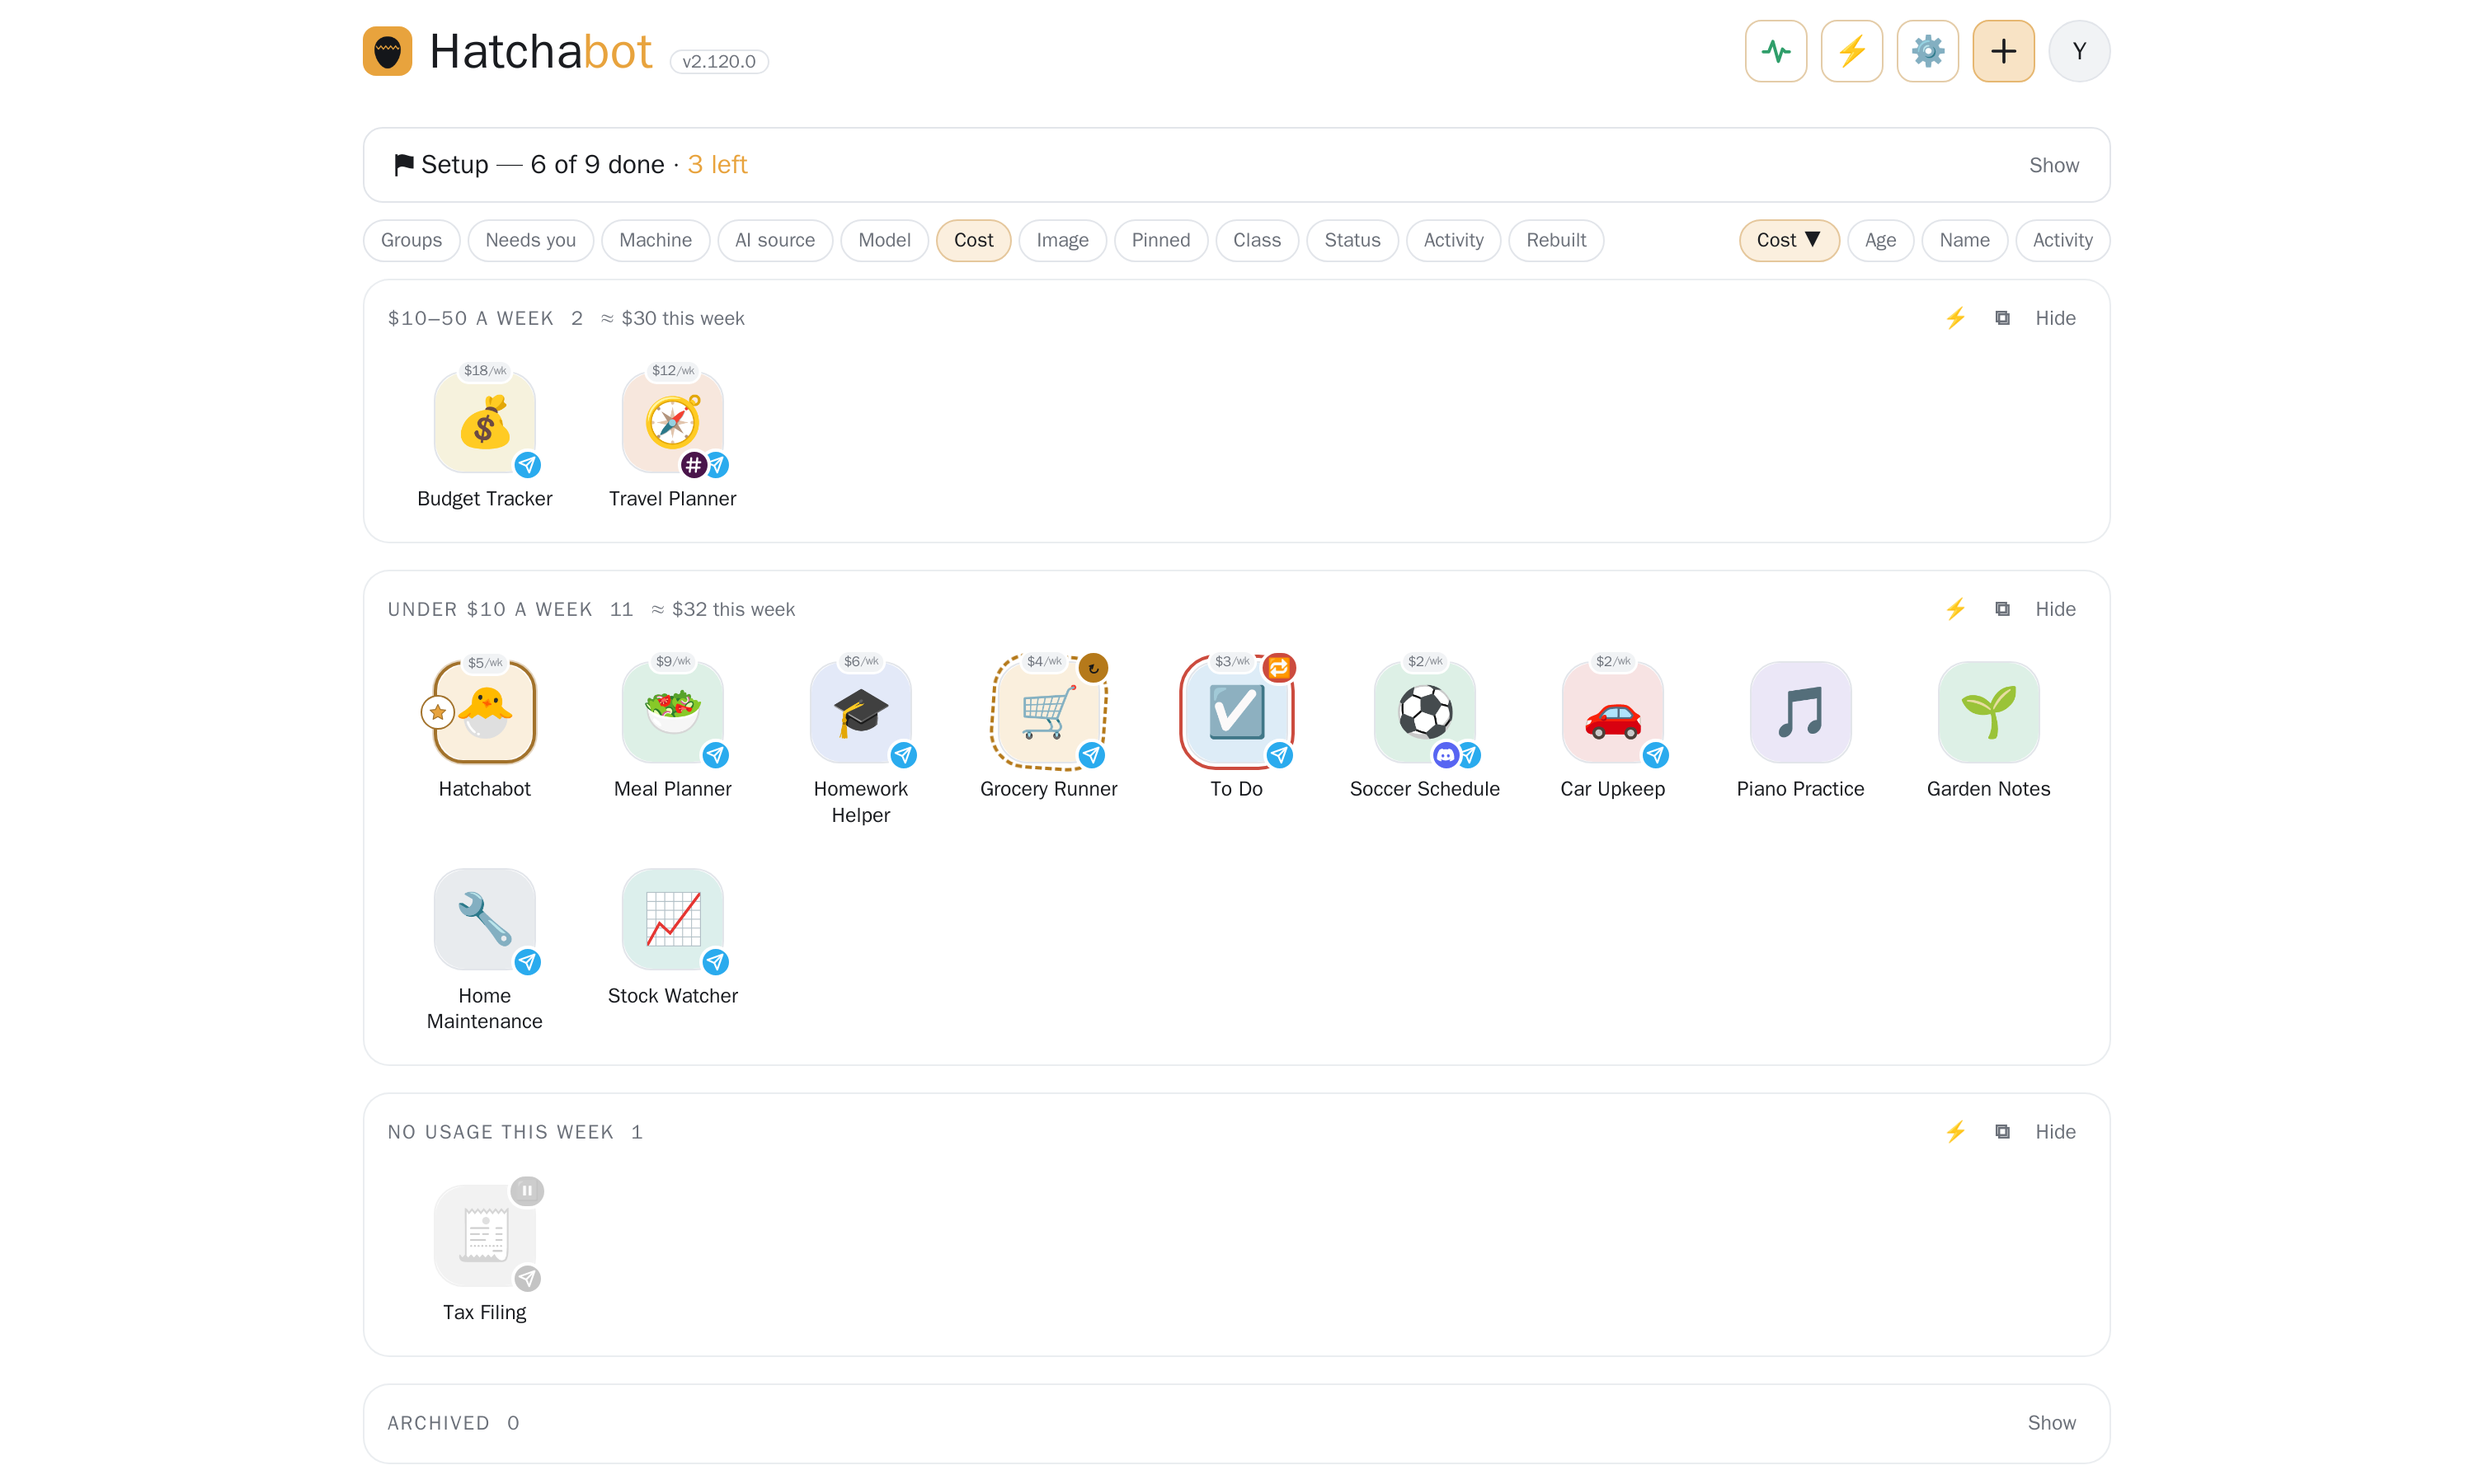
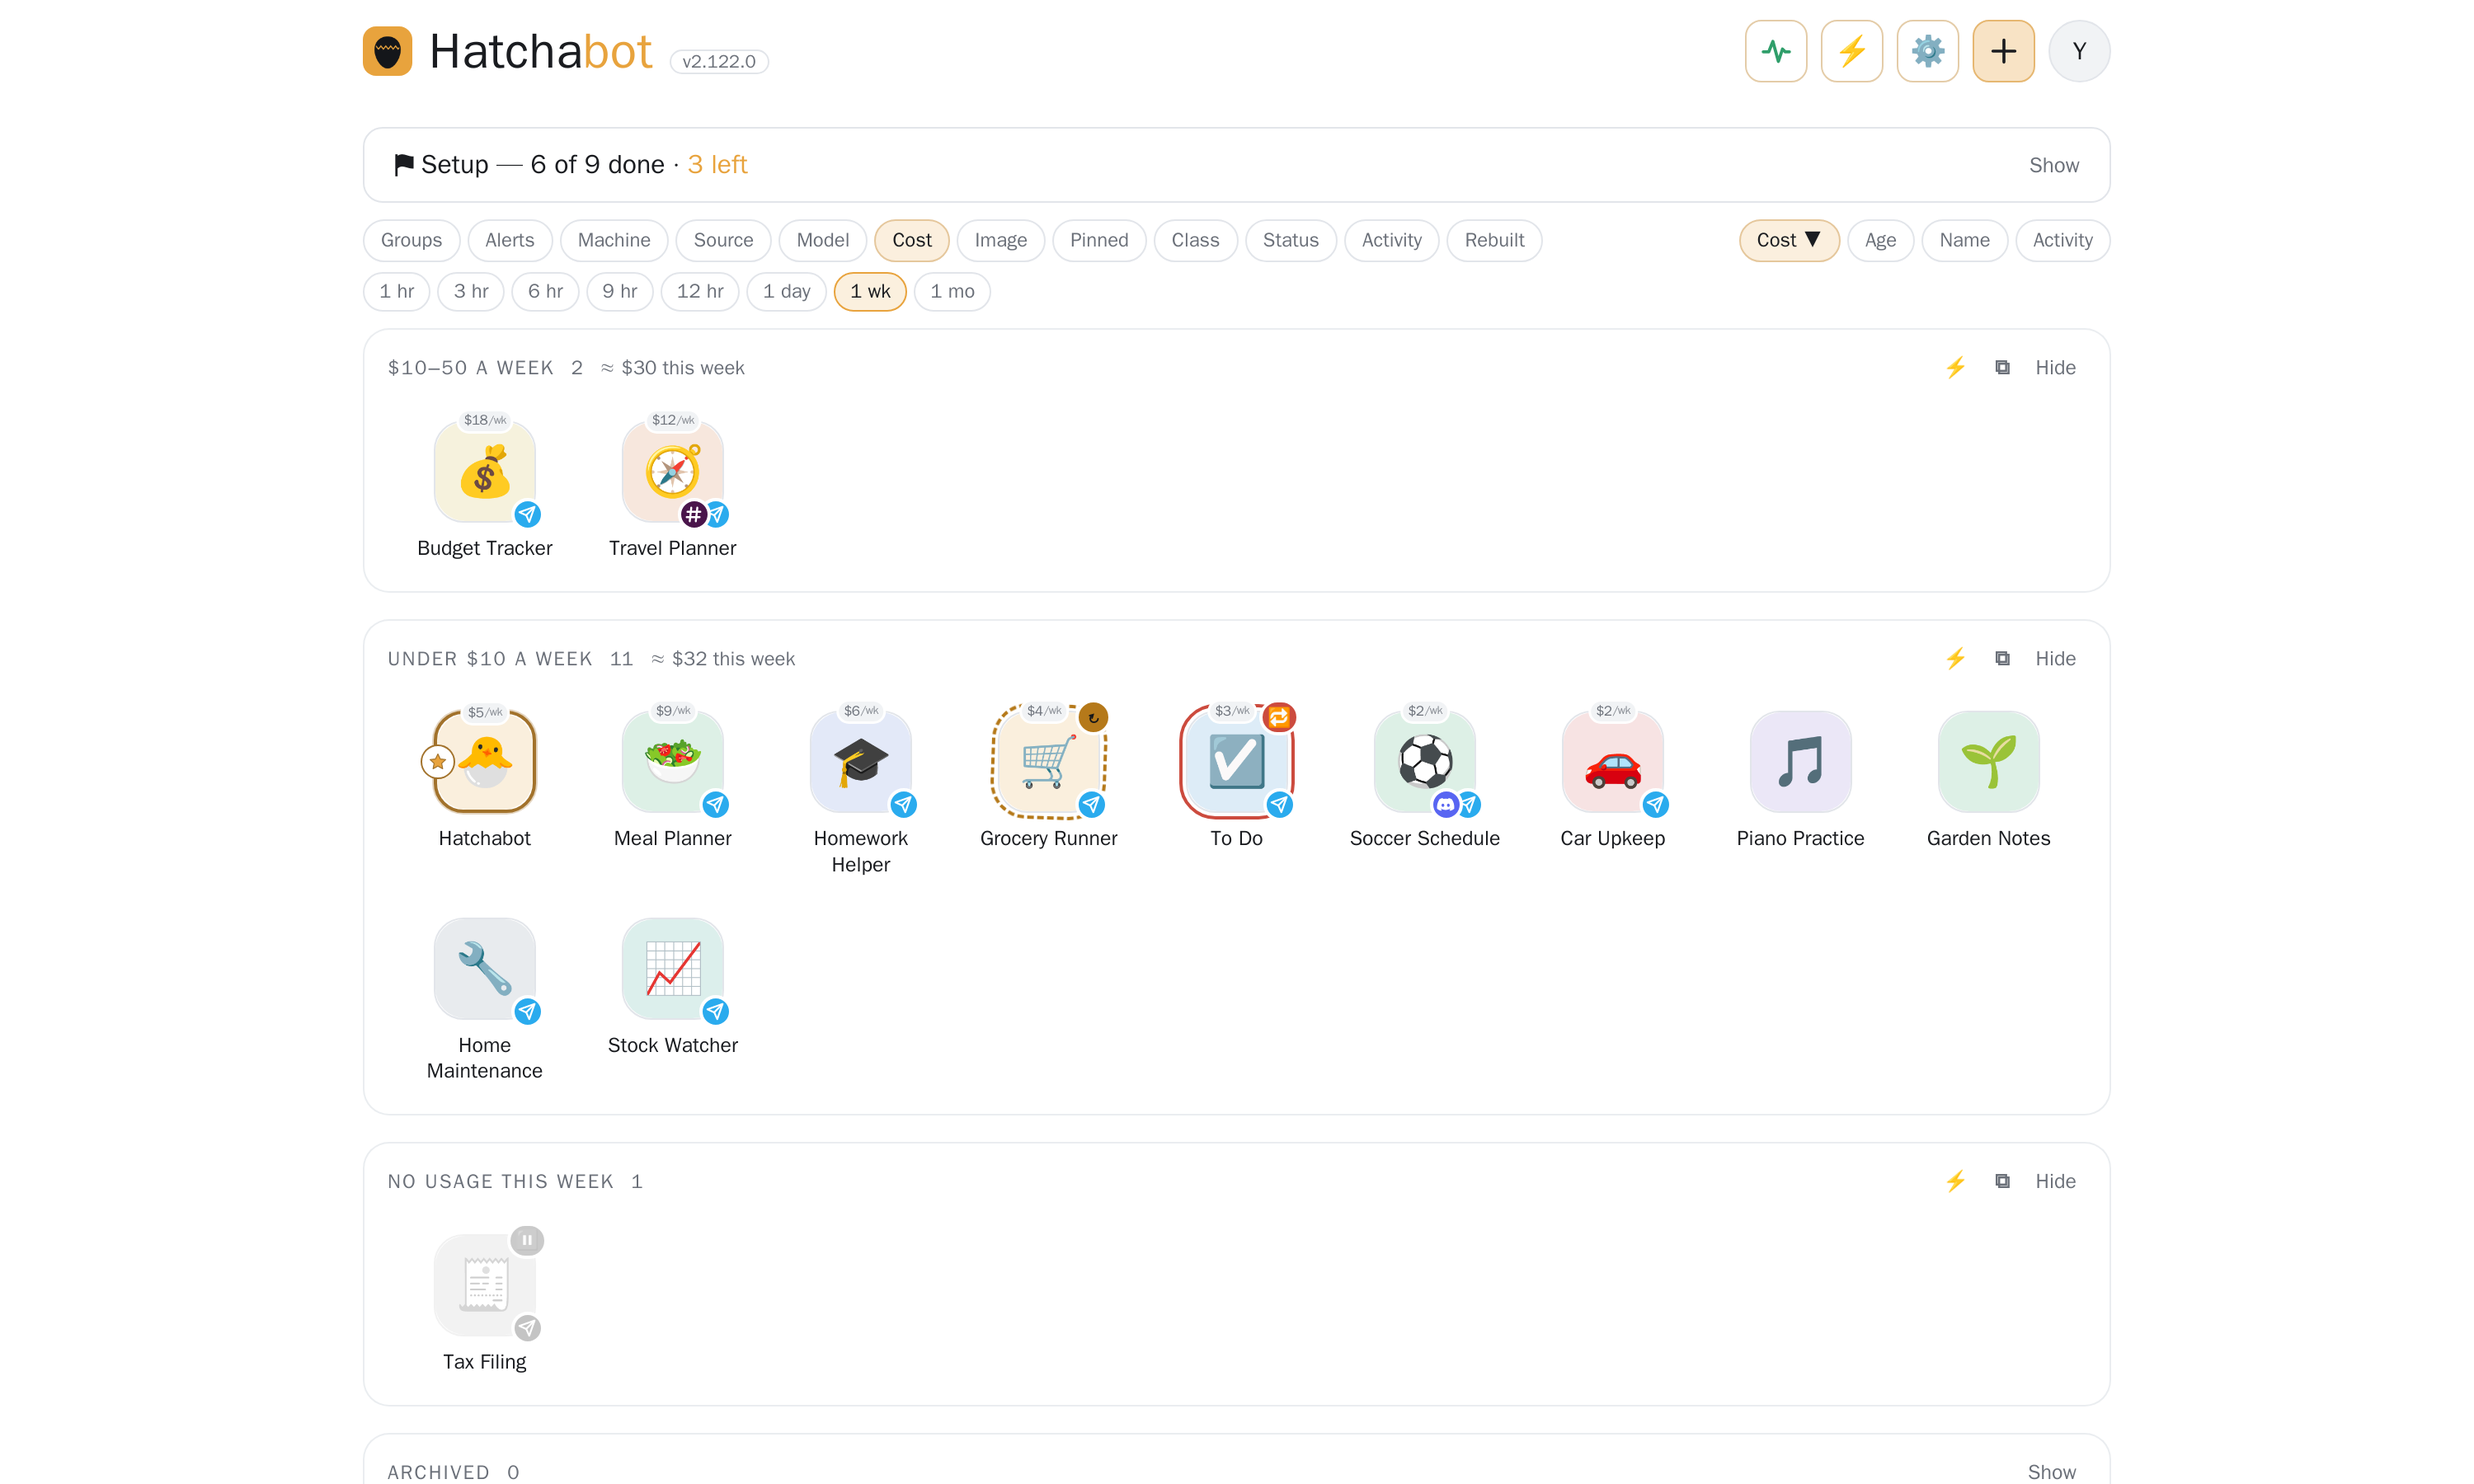
Needs you → Alerts; new screenshots (the view bar with Alerts and Source)
Claude-Session: https://claude.ai/code/session_01H4eKBFZQEmbnT2jkLwJM2y

diff --git a/index.html b/index.html
@@ -64,7 +64,7 @@
   <div class="grid cols-2">
     <div class="card"><span class="ico">⚖</span><h3>The right model, on evidence</h3><p>Every week it reads a scorecard for each agent: what it's for, how hard it leans on tools, how often it fails, and what it would cost on each model its AI source offers. Thin evidence or a small saving means no change — and it never wakes a sleeping agent to find out.</p></div>
     <div class="card"><span class="ico">🛡</span><h3>A quality guard on every switch</h3><p>Every model change is recorded with the old model's figures. Within a week the new model is measured the same way; if failed turns or tool errors went up, Hatchabot proposes switching back. A card for a cheaper model spells out its risks before you decide.</p></div>
-    <div class="card"><span class="ico">🔁</span><h3>Loops, caught as they happen</h3><p>A chat message retried again and again, a scheduled task failing run after run, two agents consulting each other in circles: Hatchabot marks the tile, puts it under Needs you with the fix, and sends one message on Telegram. It clears itself when the loop stops. For a task that keeps failing, it proposes pausing it until it's fixed — a card you confirm.</p></div>
+    <div class="card"><span class="ico">🔁</span><h3>Loops, caught as they happen</h3><p>A chat message retried again and again, a scheduled task failing run after run, two agents consulting each other in circles: Hatchabot marks the tile, puts it under Alerts with the fix, and sends one message on Telegram. It clears itself when the loop stops. For a task that keeps failing, it proposes pausing it until it's fixed — a card you confirm.</p></div>
     <div class="card"><span class="ico">📏</span><h3>Conversations kept in size</h3><p>Every message re-sends the whole conversation, so a long one costs more on every turn. When one grows large, it proposes a compaction now, or a cap so the agent compacts on its own — each a card you confirm.</p></div>
     <div class="card"><span class="ico">🗓</span><h3>A weekly token review</h3><p>Once a week it checks the prompt cache, what scheduled tasks cost, how big the instruction files are and how much the agents think — and opens with the savings line: "Right-size: ≈ $12.40 this month", counted from what agents actually used since each switch.</p></div>
     <div class="card"><span class="ico">🏷</span><h3>A cost on every tile, a budget if you want one</h3><p>Each agent's icon carries what its last week cost — "$4/wk" — and a Cost view lists the fleet most expensive first. Give an agent, or the whole Hatchabot, a monthly budget: you hear at 80% and 100%, and if you choose, it pauses at the limit until the 1st. The price list behind every figure is in the app, with the date it was checked.</p></div>
